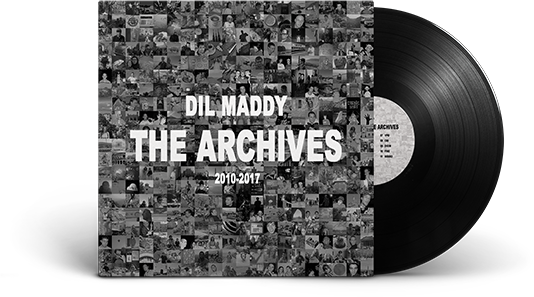
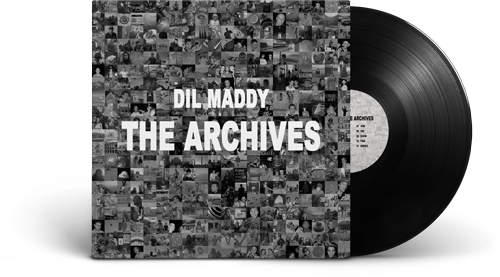
updated layout

diff --git a/index.html b/index.html
@@ -41,16 +41,22 @@
     <!-- Page Content >>> -->
     <div id="page-content" class="page-content" role="main">
         <div id="content">
-            <img src="img/archives-vinyl.png" />
+            <img class="cover" src="img/archives-vinyl.png" srcset="img/archives-vinyl@2x.png 2x" />
             <br/>
             <a href="https://qrates.com/projects/15862-the-archives" target="_blank">
-                <img src="img/vinyl.png"/>
-                <span>PRE-ORDER VINYL</span>
+                <div class="media">
+                    <span class="helper"></span>
+                    <img src="img/vinyl-icon.png" srcset="img/vinyl-icon@2x.png 2x" />
+                    <span>PRE-ORDER VINYL</span>
+                </div>
             </a>
             <br/>
             <a href="https://dilmaddy.bandcamp.com/album/the-archives" target="_blank">
-                <img src="img/cassette.png"/>
-                <span>BUY LIMITED EDITION CASSETTE</span>
+                <div class="media">
+                    <span class="helper"></span>
+                    <img src="img/cassette-icon.png" srcset="img/cassette-icon@2x.png 2x" />
+                    <span>BUY LIMITED EDITION CASSETTE</span>
+                </div>
             </a>
             <br/>
         
@@ -59,9 +65,12 @@
             </div> -->
         
             <br/>
-            <a href="https://open.spotify.com/album/6EaNMDbLeSZsj5H95iqF2N" target="_blank" style="display:inline-block;overflow:hidden;background:url(img/spotify-badge.png) no-repeat;width:156px;height:45px;"></a>
-            <a href="https://itunes.apple.com/hu/album/the-archives/1384021966" target="_blank" style="display:inline-block;overflow:hidden;background:url(https://linkmaker.itunes.apple.com/assets/shared/badges/en-us/music-lrg.svg) no-repeat;width:157px;height:45px;background-size:contain;"></a>
-            <br/>
+            <a href="https://open.spotify.com/album/6EaNMDbLeSZsj5H95iqF2N" target="_blank">
+                <img src="img/listen-on-spotify.png" srcset="img/listen-on-spotify@2x.png 2x"/>
+            </a>
+            <a href="https://itunes.apple.com/hu/album/the-archives/1384021966" target="_blank">
+                <img src="img/listen-on-applemusic.png" srcset="img/listen-on-applemusic@2x.png 2x"/>
+            </a>
         </div>
     </div>
     <!-- <<< Page Content -->

diff --git a/css/styles.css b/css/styles.css
@@ -1,21 +1,37 @@
 body {
-    font-family: Arial, sans-serif;
+    font-family: Arial, Helvetica, sans-serif;
+    font-weight: bold;
     background: url("../img/bg-tile.jpg") repeat;
-    text-color: black;
+    color: #000;
 }
 
 a {
     text-decoration: none;
-    color: #000;
 }
 a:link {
     color: #000;
 }
-a:hover {
-    text-decoration: underline;
-}
-a:visited {
+a:visited, a:hover {
     color: #000;
+}
+
+.media {
+    height: 30px;      /* equals max image height */
+    max-width: 340px;
+    white-space: nowrap;
+    text-align: center;
+    margin: 0 auto;
+}
+
+.helper {
+    display: inline-block;
+    height: 100%;
+    vertical-align: middle;
+}
+
+.media img {
+    vertical-align: middle;
+    max-height: 30px;
 }
 
 .page-header {
@@ -23,23 +39,13 @@ a:visited {
     text-align: center;
 }
 
-.sc-embed {
-    margin: 0px auto;
-    width: 300px;
-    height: 200px;
-}
-
 #content {
     margin: 0px auto;
-    width: 600px;
     text-align: center;
 }
 
-#content a span {
-    vertical-align: middle;
-    display: table-cell;
-}
-
-#content a img {
-    height: 20px;
+@media only screen and (max-width: 500px) {
+    .cover {
+        width: 300px;
+    }
 }
